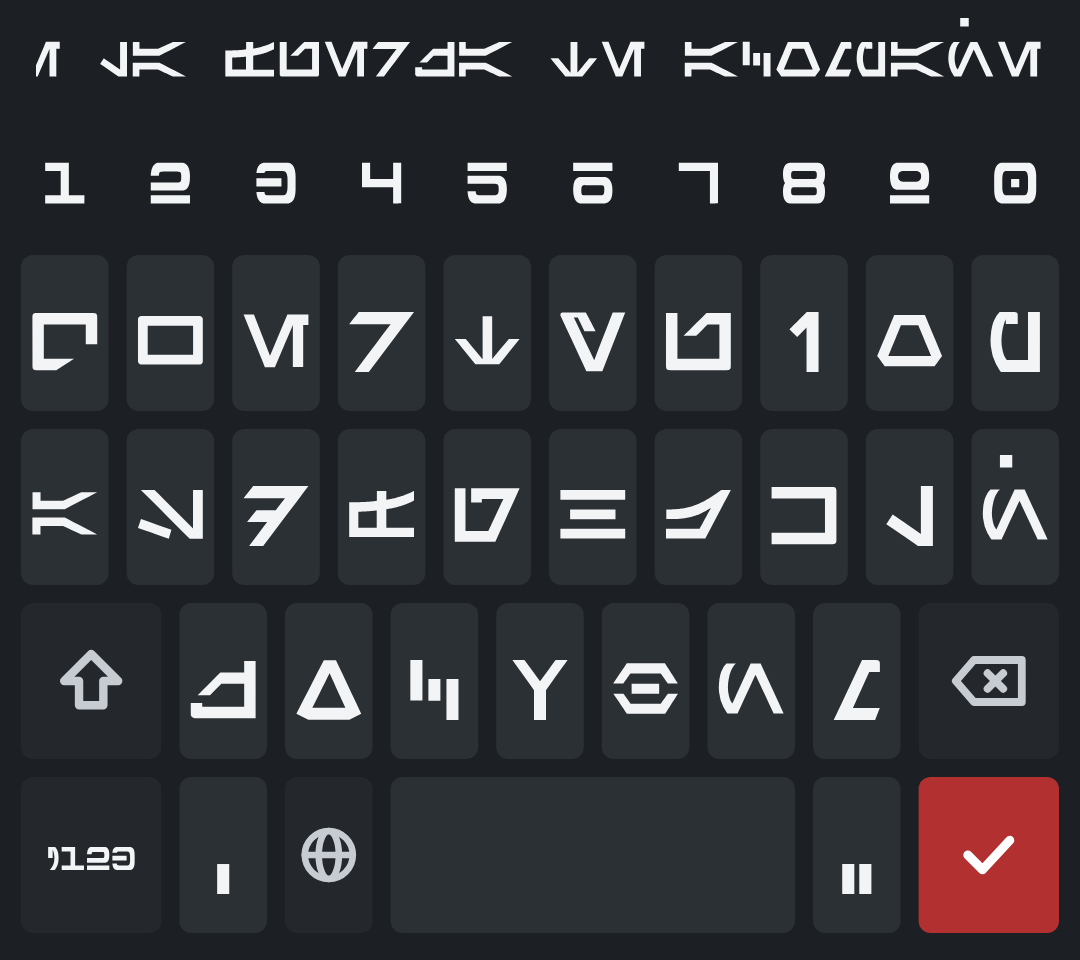
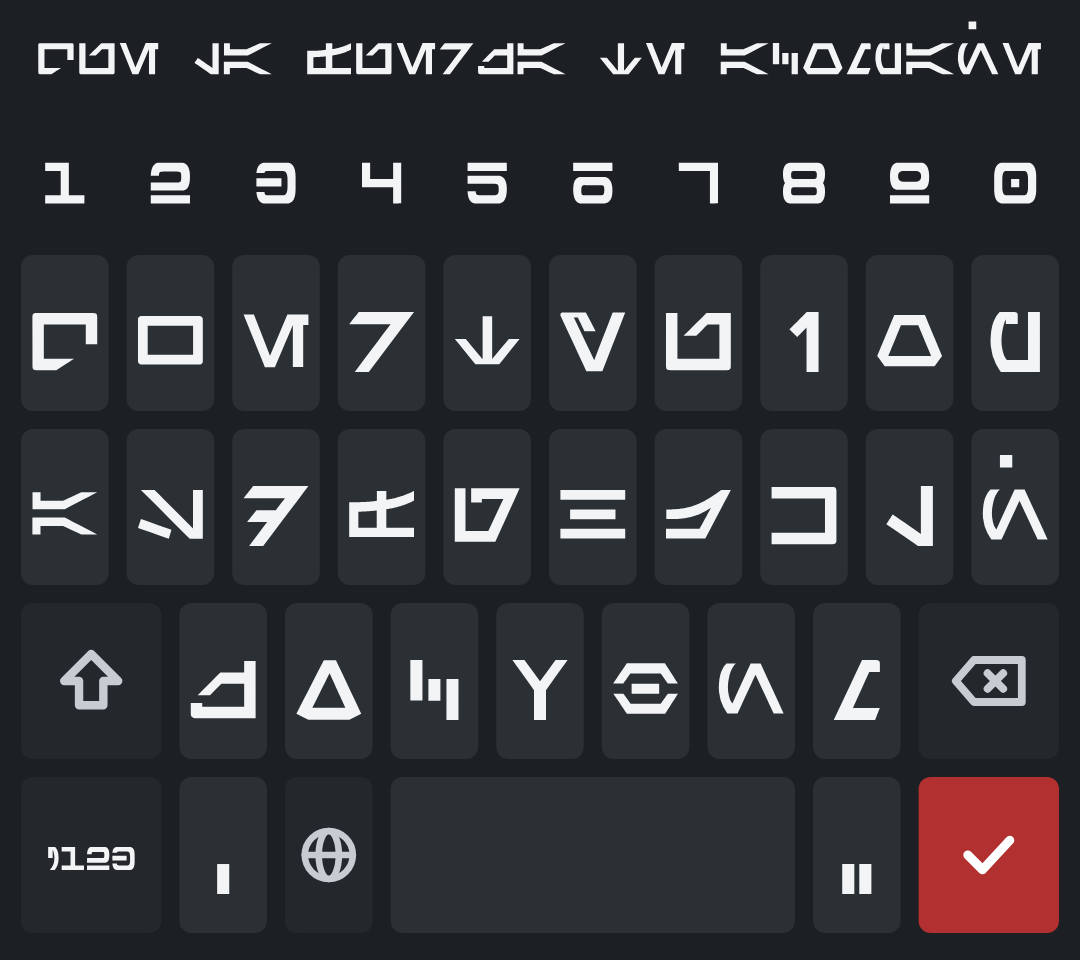
1.6: barra de traducción un punto más baja para que quepan frases con las métricas de la fuente
Claude-Session: https://claude.ai/code/session_0169nLUo7BxaBWms1Bxz2s9J

Changed region(s): [[0.0306, 0.0, 0.9778, 0.0938]]

diff --git a/app/src/main/java/com/aurebesh/teclado/AurebeshKeyboardView.java b/app/src/main/java/com/aurebesh/teclado/AurebeshKeyboardView.java
@@ -658,7 +658,7 @@ public final class AurebeshKeyboardView extends View {
     }
 
     private void drawStrip(Canvas c) {
-        float h = 15 * dp;
+        float h = 13.5f * dp;
         float top = (stripHeight() - h) / 2f;
         List<Glyphs.Token> tokens = stripTokens;
         float total = 0;
